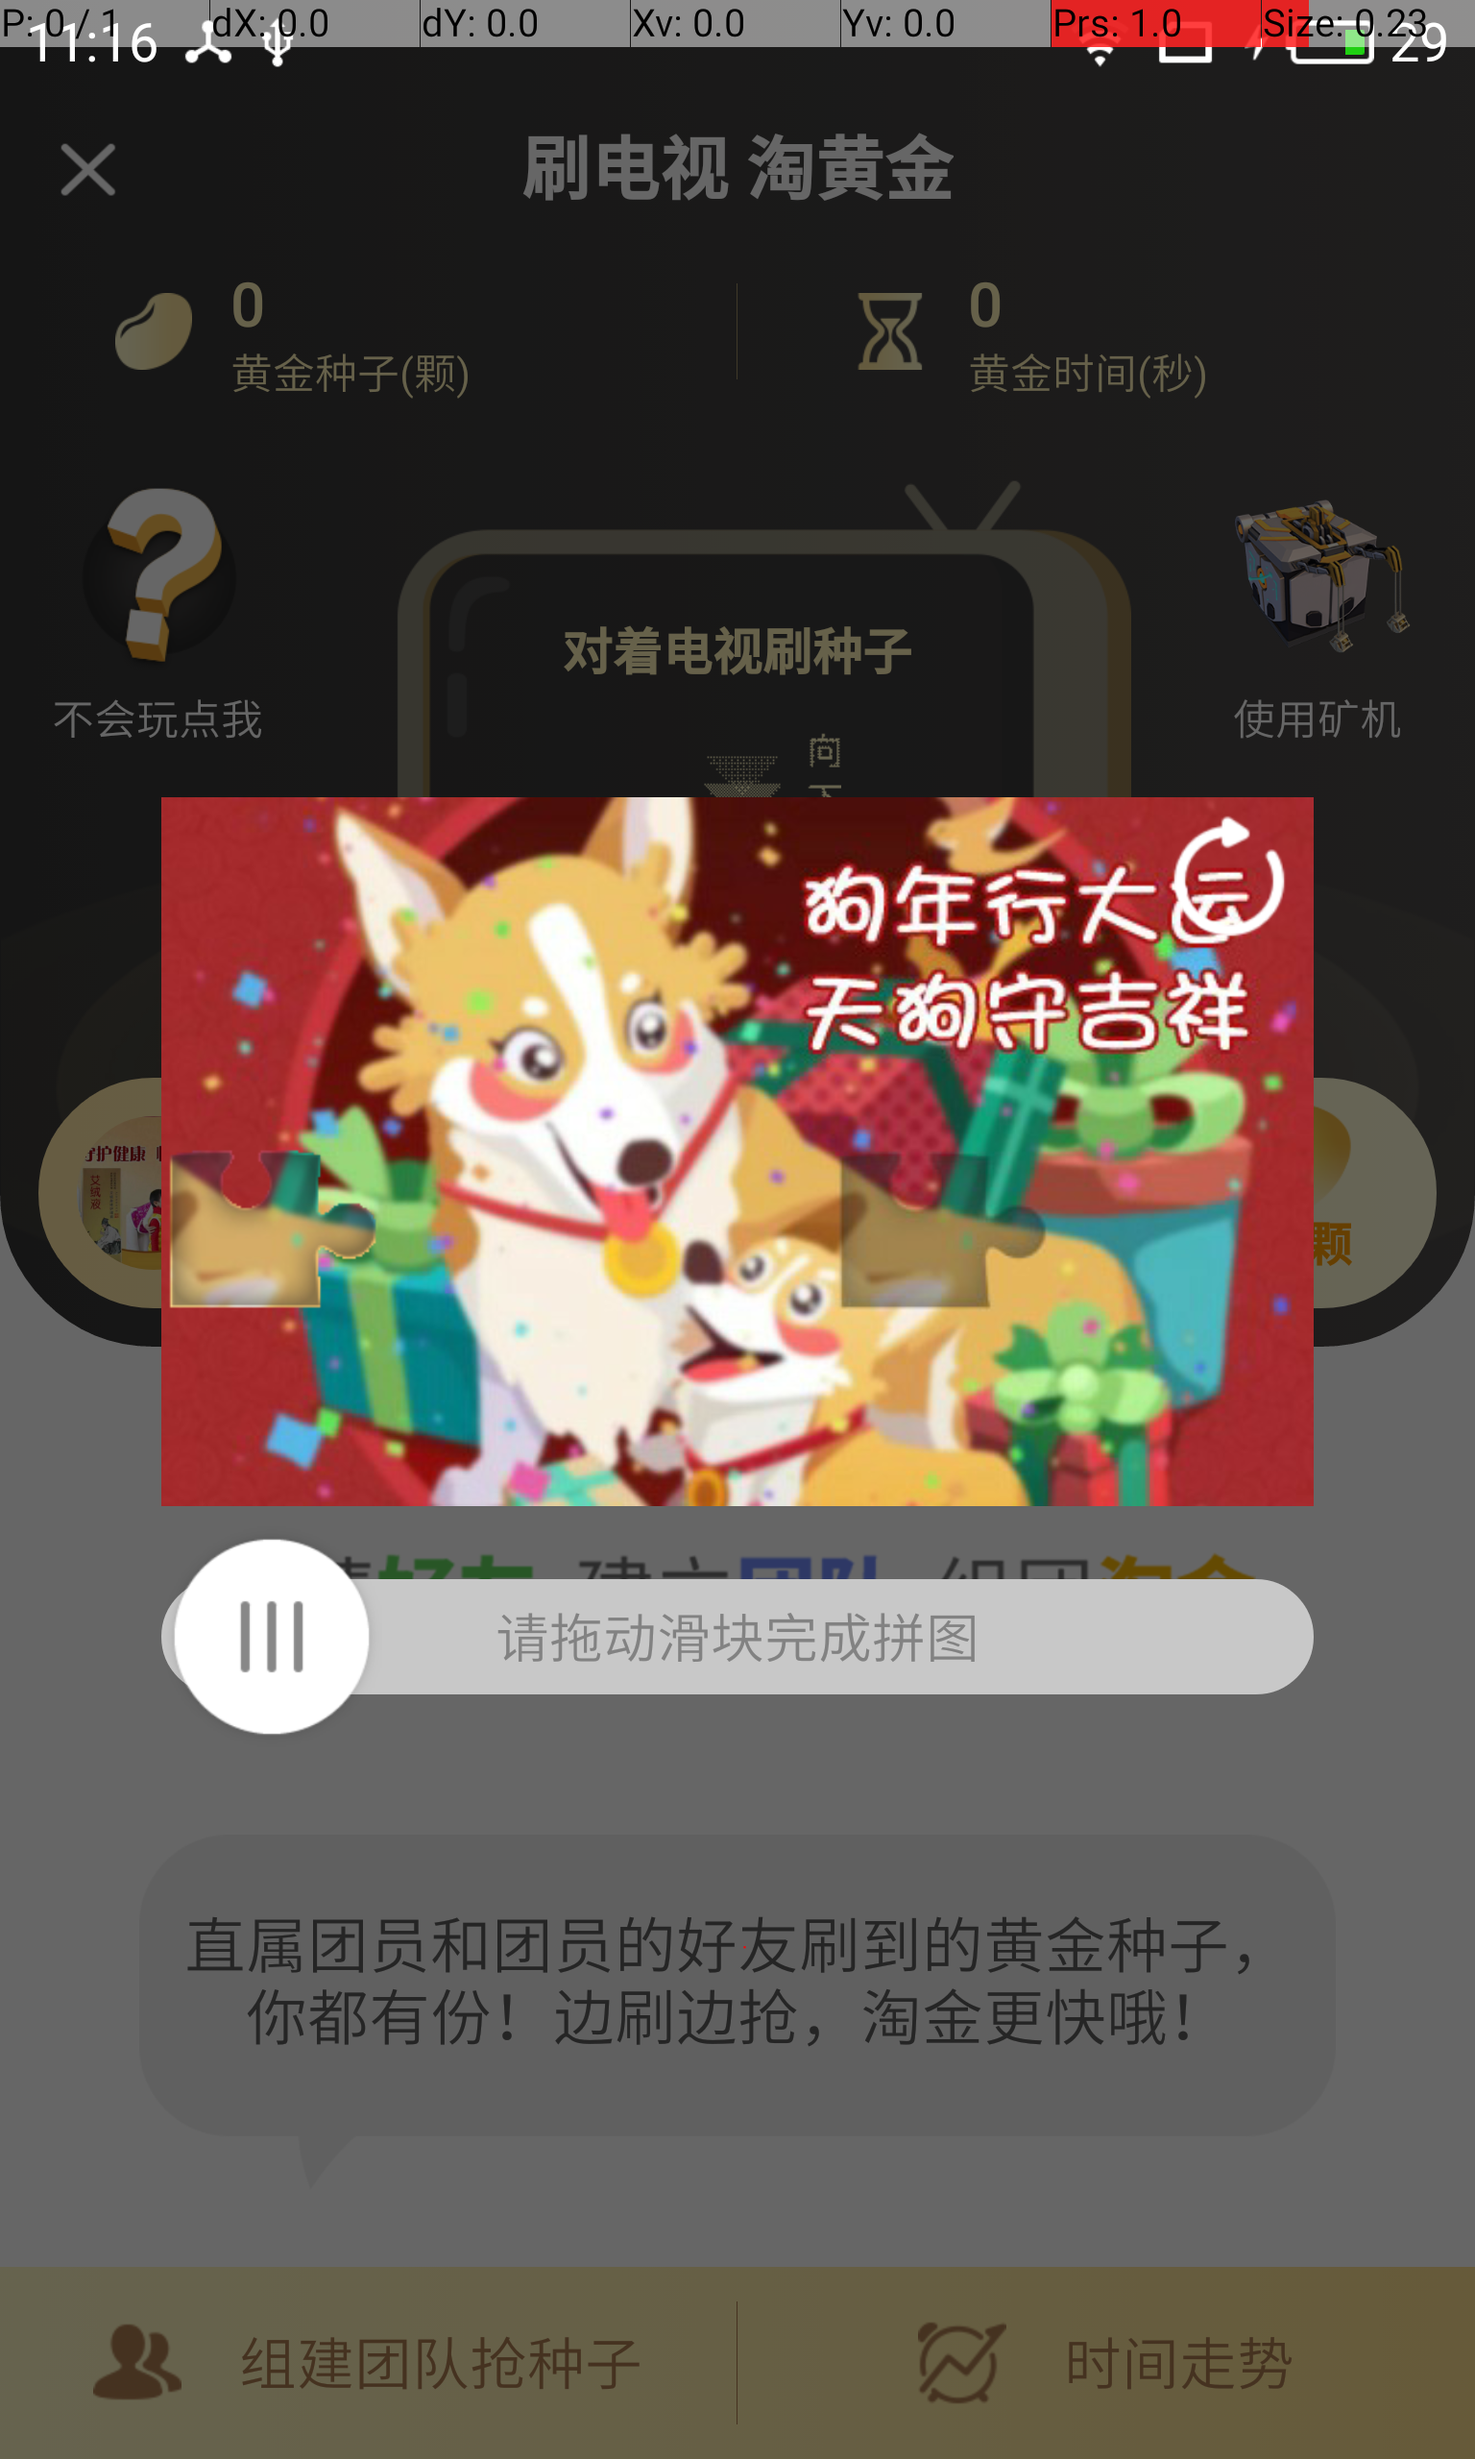
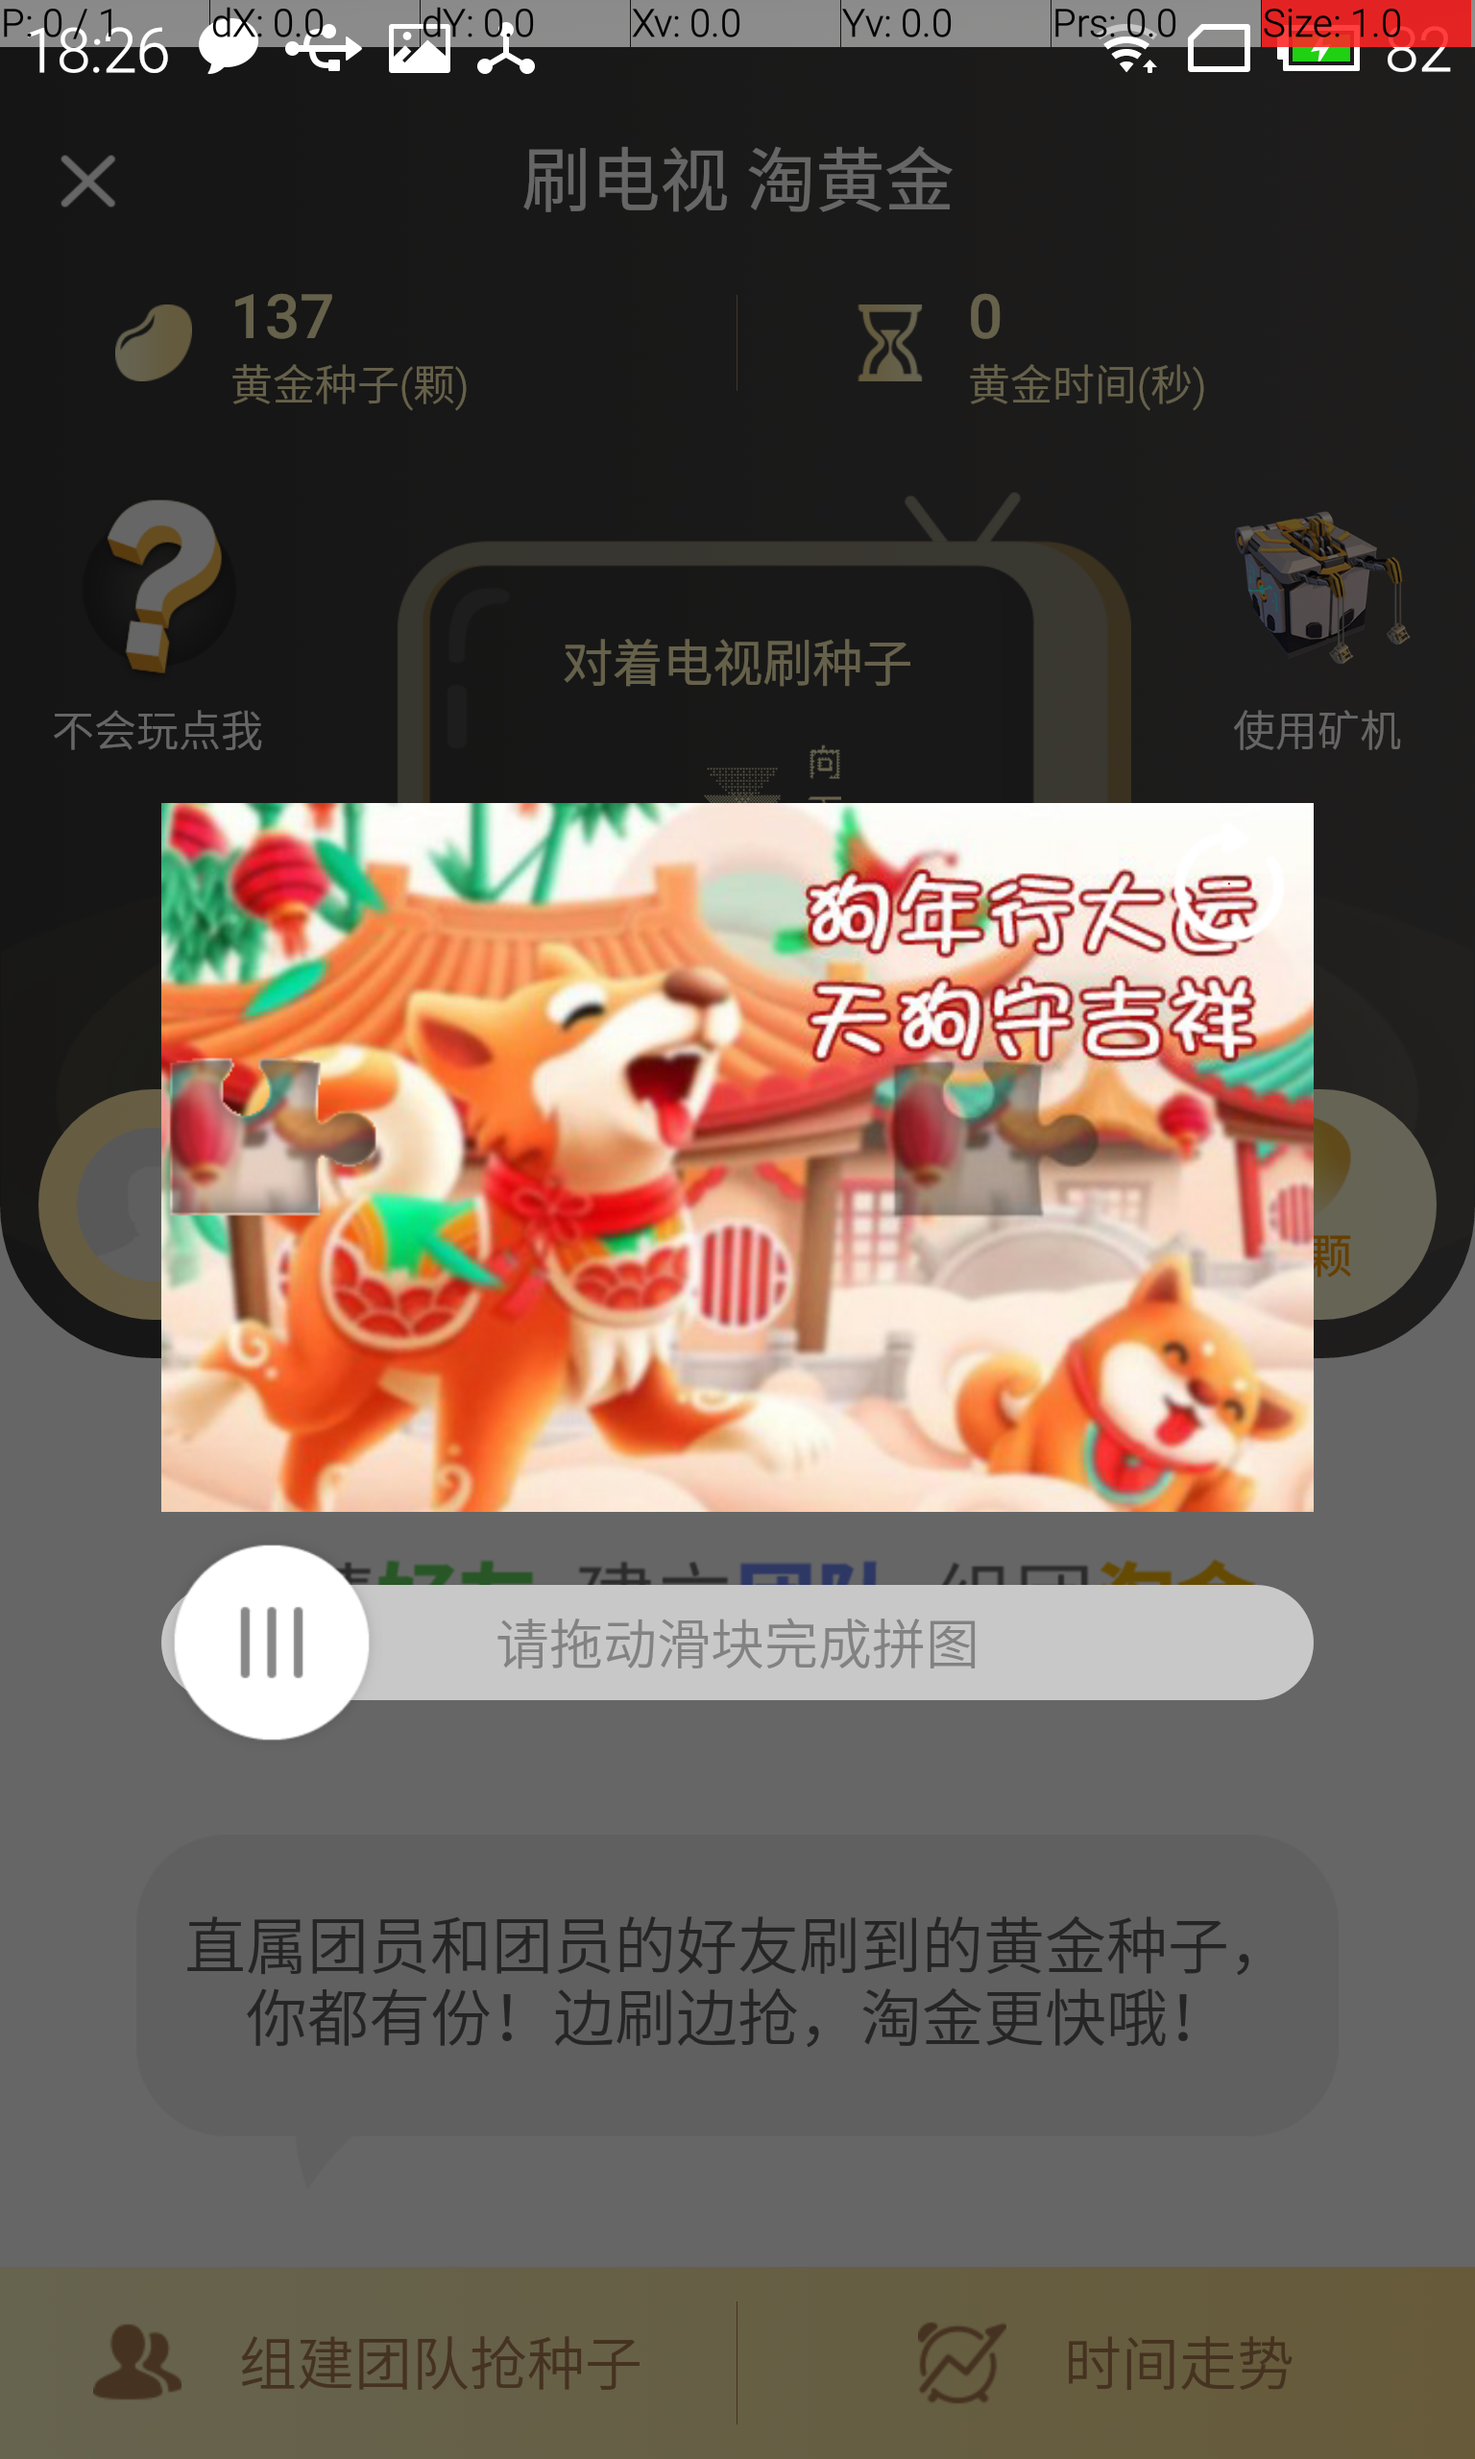
自动生成图库

diff --git a/autoImage.js b/autoImage.js
@@ -175,7 +175,7 @@ function contrastImage (callback) {
         },
         checkImage:['target', function (result, cb) {
             var target = result.target.pointArray
-            checkImage(target, function (err,result) {
+            checkImage(target, images,function (err,result) {
                 if (err) {
                     return cb(err)
                 }
@@ -210,7 +210,7 @@ function contrastImage (callback) {
 }
 
 //判断图片名称
-function checkImage (imageArray, cb) {
+function checkImage (imageArray,images,cb) {
     //多点检测
     async.eachSeries(images, function (item, callback) {
         var number = 0
@@ -223,7 +223,7 @@ function checkImage (imageArray, cb) {
                 }
             }
         }
-        console.log('识别点 number :%j , count:%j', number, count)
+        console.log('图:%j 识别点 number :%j , count:%j', item.name,number, count)
         if (count / number > 0.8) {   
             return callback(item)
         }
@@ -447,13 +447,176 @@ function forever () {
 }
 
 //主方法
-loadImages(function (err) {
-    if (err) {
-        console.log(err)
-        return
-    }
-    forever()
-}) 
+// loadImages(function (err) {
+//     if (err) {
+//         console.log(err)
+//         return
+//     }
+//     forever()
+// }) 
+
+
+
+//1.0
+
+//智能装在图库
+//获取图片=>对比图片=>保存图
+function addImage (cb) {
+    async.auto({
+        //刷新图片
+        reload: function (cb) {
+            click(deviceConfig.reloadPoint,2000,function (err) {
+                if (err) {
+                    return cb('刷新图片失败, err:'+err)
+                }
+                console.log('刷新图片')
+                cb()
+            }) 
+        },
+        //获取当前图片
+        getImage: [ 'reload',function (result,cb) {
+            getCheckImage(function (err) {
+                if (err) {
+                    return cb()
+                }
+                console.log('获取当前图片')                
+                cb()
+            })
+        }],
+        //获取图库图片列表
+        getImageList: [ 'getImage', function (result, cb) {
+            exec("ls -l " + projectPath + "/public |awk '/.png/ {print $NF}'", function (err,result) {
+                if (err){
+                    console.log('获取图库列表失败')
+                    return cb(err)
+                }
+                var list = result.split('\n')
+                list.pop()
+                console.log('获取图库图片列表 list: %j',list)                
+                cb(null,list)
+            })
+        }],
+        //装载当前图片
+        loadImage: [ 'getImageList', function (result, cb) {
+            getImageArray('screen', function (err, result) {
+                if (err) {
+                    return cb(err)
+                }
+                console.log('装载当前图片')
+                cb(null, result)
+            })
+        }],
+        //装载图库
+        loadImages: [ 'loadImage', function (result, cb) {
+            images = []
+            var list = result.getImageList
+            async.eachSeries(list, function (item, callback) {
+                if (/\-1.png$/.test(item)) {
+                    return callback()
+                }
+                var imagName = item.split('.')
+                if (imagName[0] == 'screen') {
+                    return callback()
+                }
+                getImageArray(imagName[0], function (err, result) {
+                    if (err) {
+                        return callback(err)
+                    }
+                    images.push(result)
+                    callback()
+                })
+            },function (err) {
+                if (err) {
+                    return cb(err)
+                }
+                console.log('装载图库')                
+                cb()
+            })
+        }],
+        //图库图片与当前图片对比
+        checkImage: [ 'loadImages' ,function (result, cb) {
+            var target = result.loadImage
+            var list = result.getImageList
+            checkImage(target.pointArray, images,function (err,result) {
+                if (err) {
+                    return cb(null,target)
+                }
+                if (list.indexOf(result.name + '-1') != -1) {
+                    return cb('继续添加')
+                }
+                console.log('图片对比 result: %j',result.name)                
+                saveImage(result.name + '-1',function (err) {
+                    if (err) {
+                        return cb(err)
+                    }
+                    cb('继续添加')                    
+                })
+            })
+        }],
+        //计算新图片名称
+        getAddName: [ 'checkImage', function (result, cb) {
+            var list  = result.getImageList
+            var lastName = null
+            for (var index = list.length - 1 ; index > 0; index--) {
+                if (!/\-1$/.test(list[index])) {
+                    lastName = list[index]
+                    break
+                }
+            }
+            var name = 'screen' + (lastName ? +lastName.replace(/[^0-9]/ig,"") + 1 : 1)
+            console.log('计算新图片名称 name:%j',name)
+            cb(null,name)
+        }],
+        //保存图片
+        saveImage: [ 'getAddName', function (result, cb) {
+            var saveName = result.getAddName
+            saveImage(saveName, function (err) {
+                if (err){
+                    return cb(err)
+                }
+                console.log('保存图片')
+                cb()
+            })
+        }]
+    }, function (err) {
+        if (err && err!= '继续添加') {
+            console.log('继续添加')            
+            return cb(err)
+        }
+        cb()
+    })
+}
+
+//保存图片
+function saveImage (name,cb) {
+    exec("mv " + projectPath + "/public/screen.png " + projectPath + "/public/"+ name +".png", function (err,result) {
+        if (err){
+            console.log('修改图片名称失败')
+            return cb(err)
+        }
+        cb()
+    })
+}
+
+function autoImages () {
+    addImage( function (err){
+        if (err) {
+            console.log(err)       
+            return
+        }
+        autoImages()
+    })
+}
+// autoImages ()
+
+// exec("ls -l /Users/ming/yard/cashBookApi/public |awk '/.png/ {print $NF}'", function (err,result) {
+//     if (err){
+//         console.log(err)
+//     }
+//     var list = result.split('\n')
+//     list.pop()
+//     console.log(list)
+// })
 
 // exec('adb shell input swipe 308 1700 ' + 1148 + ' 1700', function () {
 //     console.log()

diff --git a/deviceConfig.js b/deviceConfig.js
@@ -1,9 +1,9 @@
 var CONFIG = {
     //屏幕配置
     "screen":{
-        "minX": 400,
-        "maxX":1240,
-        "minY":860,
+        "minX":400,
+        "maxX":1350,
+        "minY":850,
         "maxY":1560,
         "leftX":176
     },
@@ -40,6 +40,10 @@ var CONFIG = {
     "pullPointEnd" : {
         X:780,
         Y:1520
+    },
+    "reloadPoint" : {
+        X:1280,
+        Y:920
     },
     //滑块速度
     "slideTime" : 7000,
